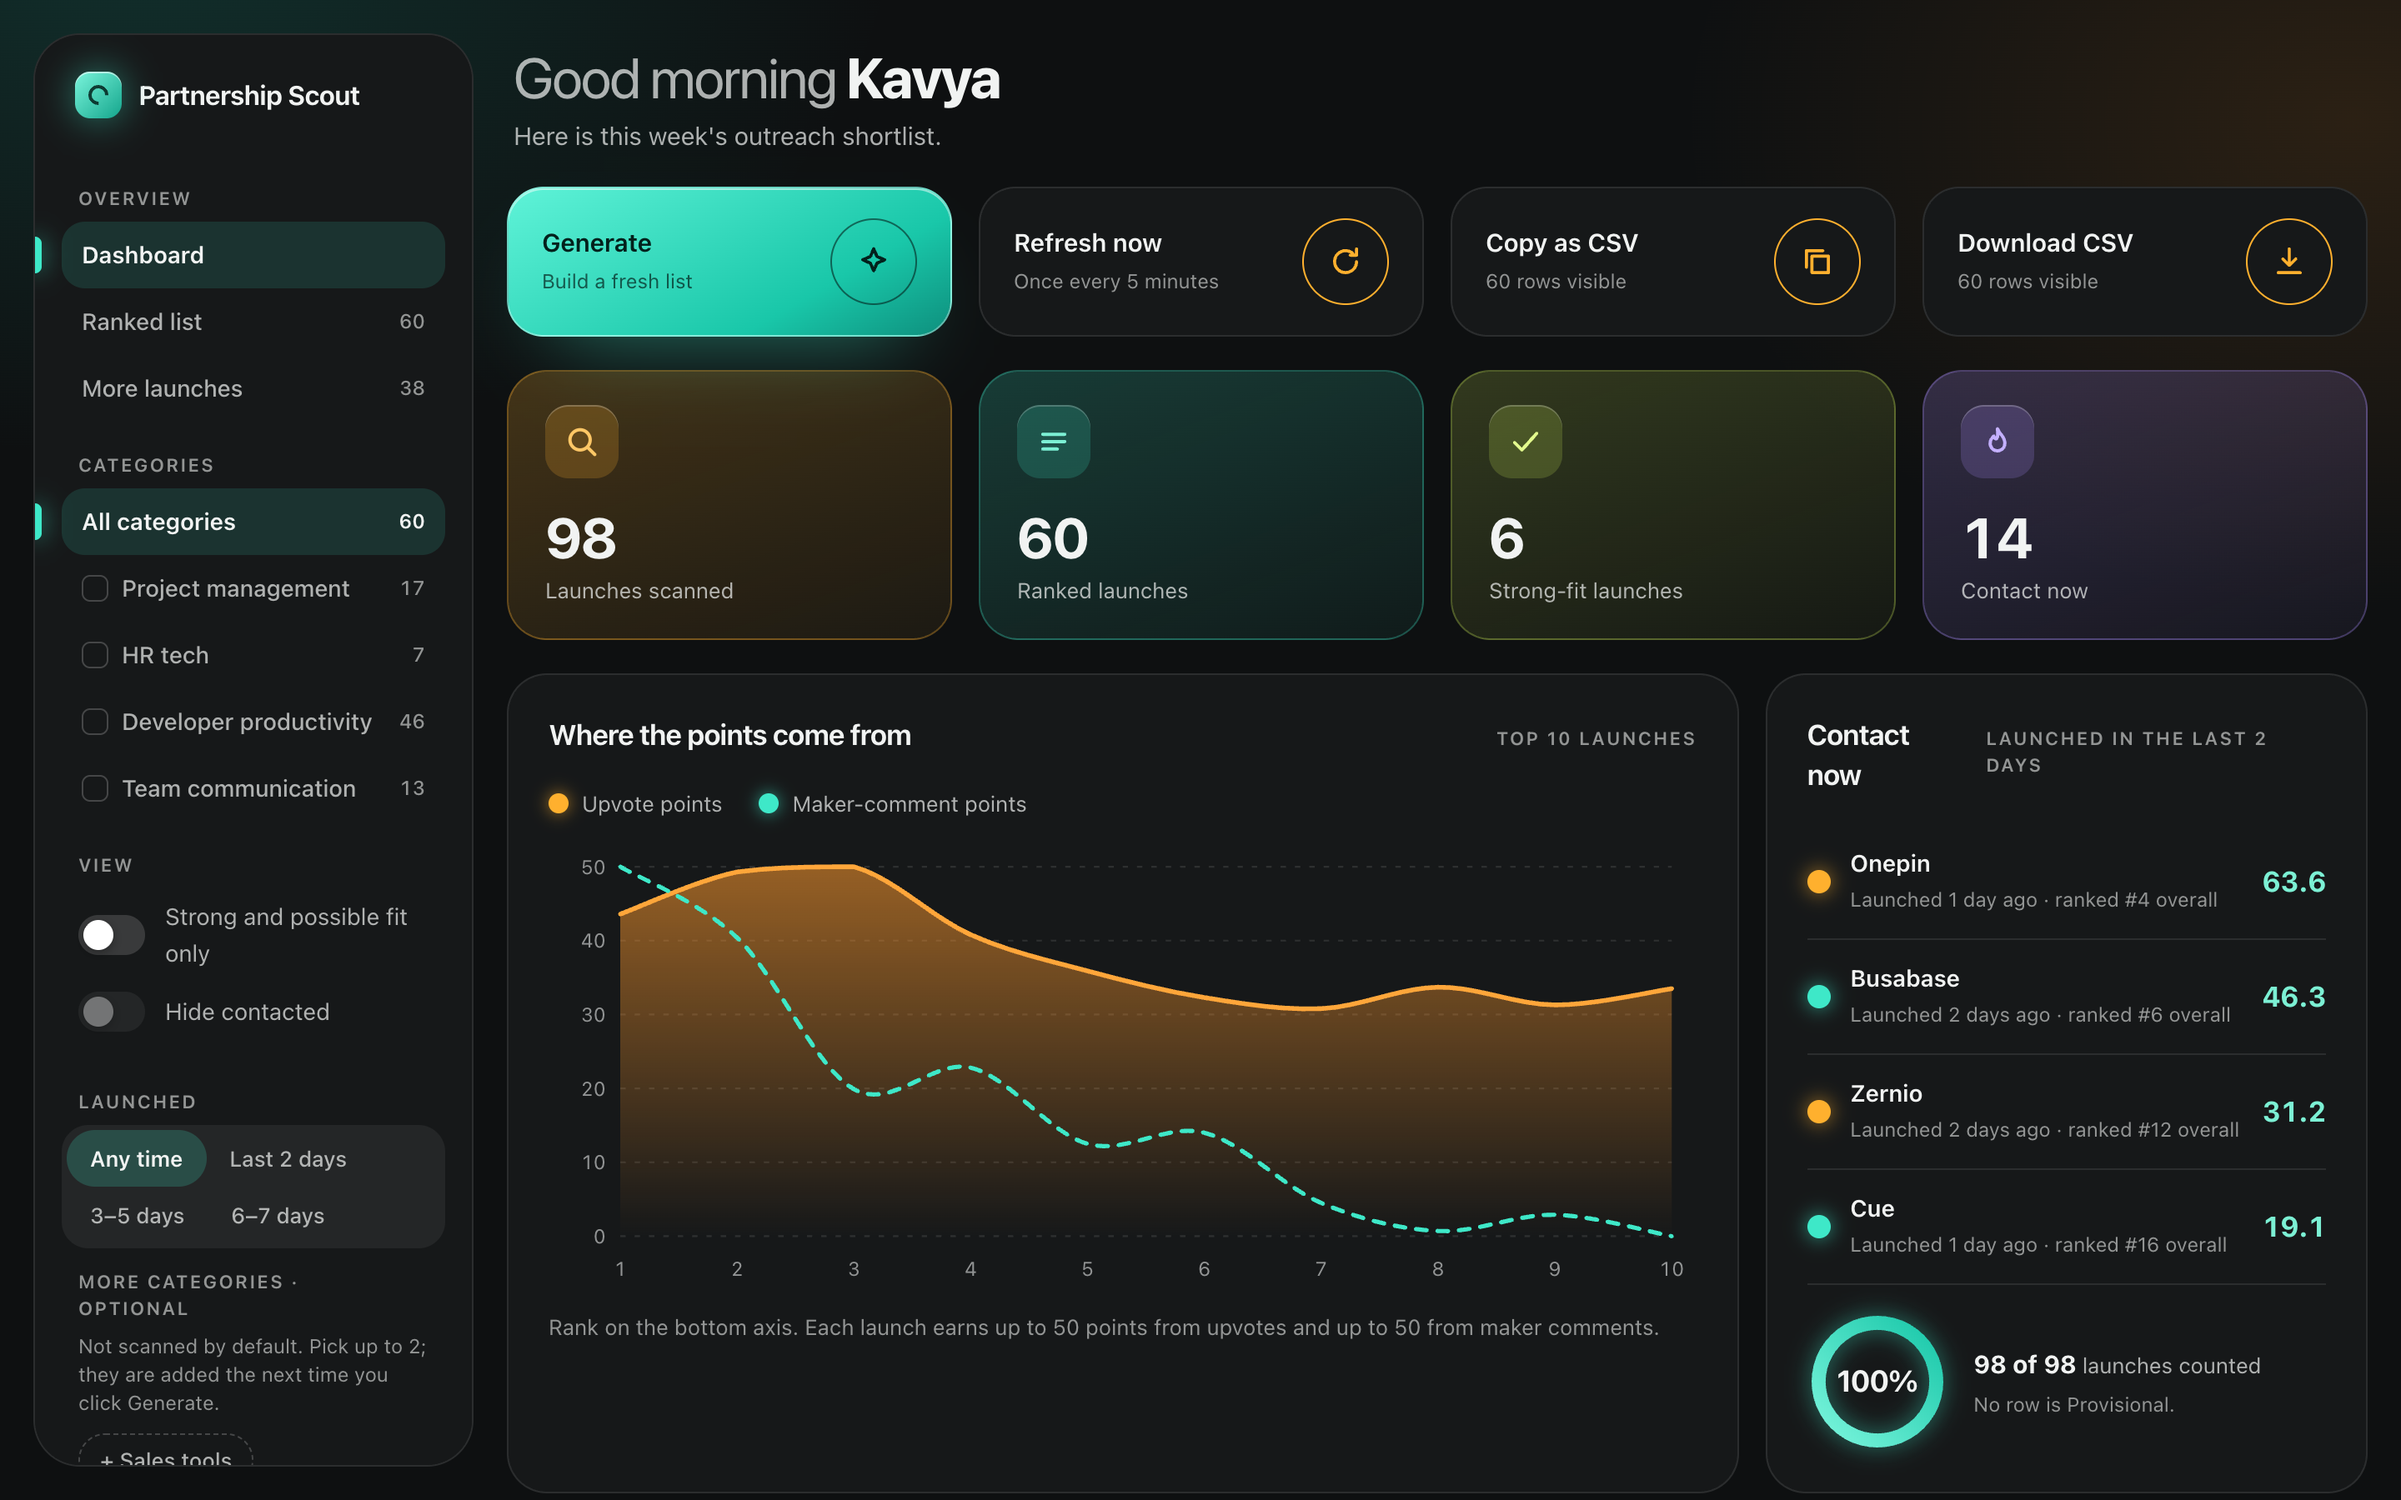
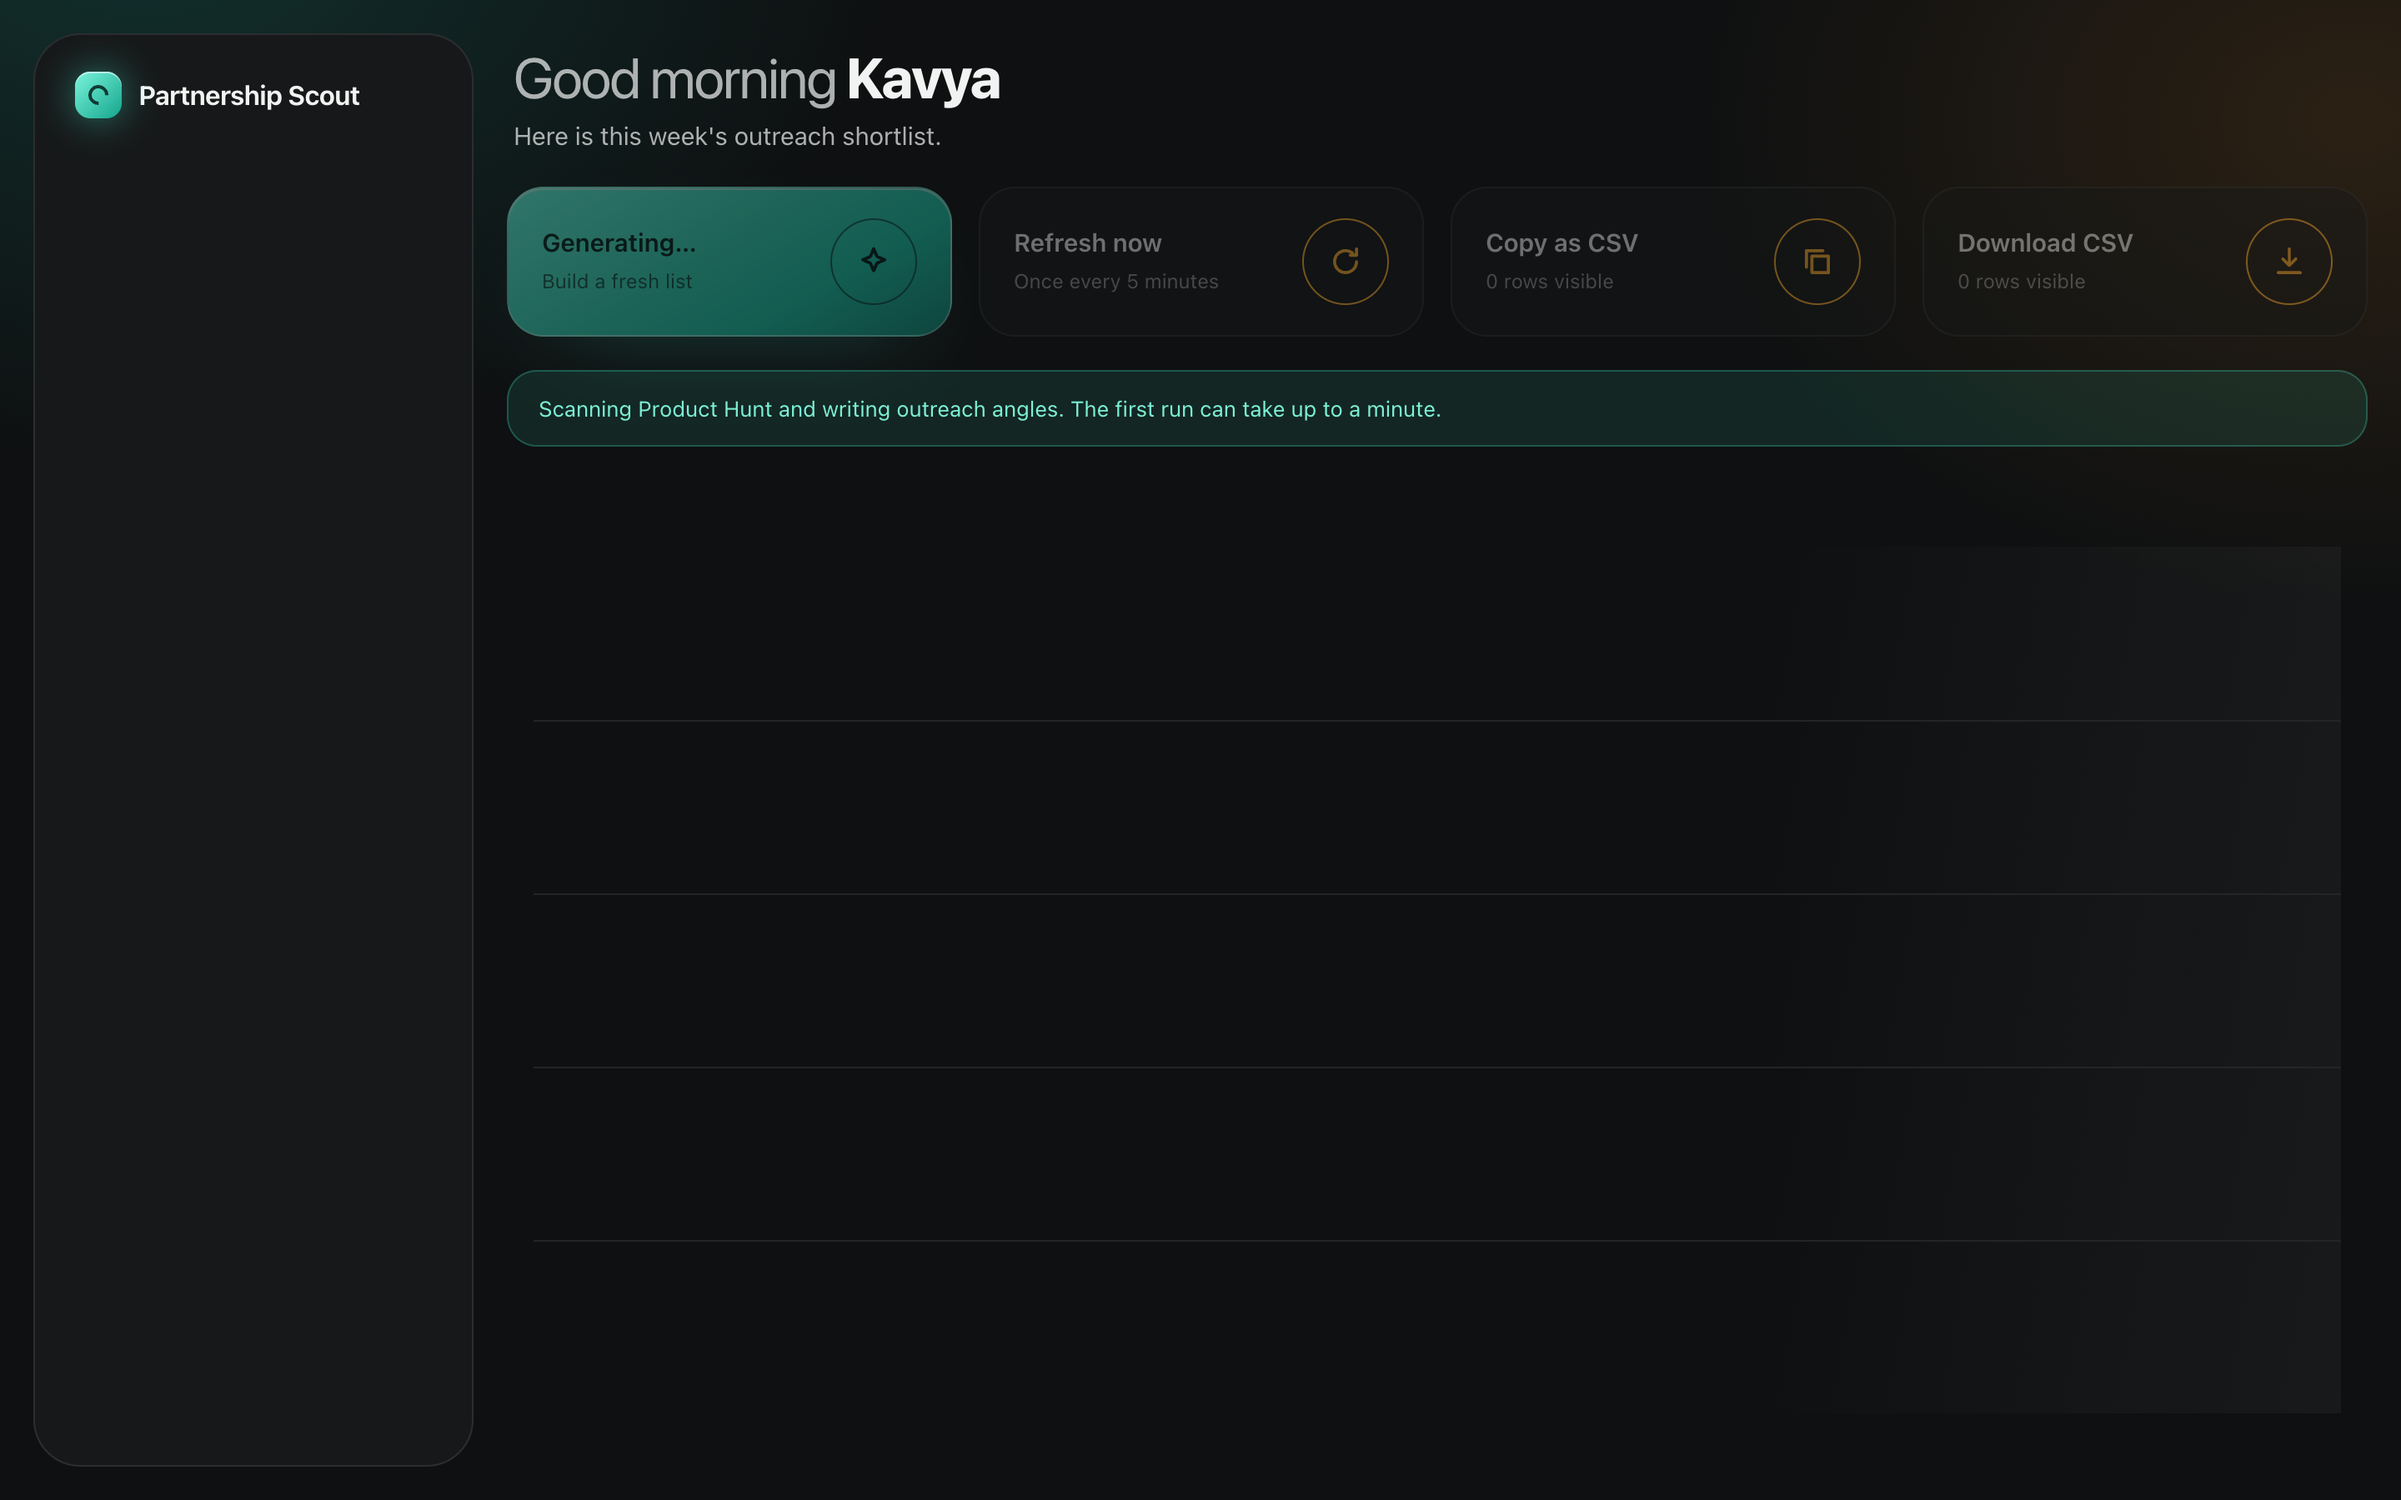
Rename Possible fit to Complementary fit in the UI, CSV and copy to Kavya

diff --git a/app/page.tsx b/app/page.tsx
@@ -7,7 +7,7 @@ import type { ScoredLaunch, ScoutResponse } from "@/lib/types";
 
 const LAST_VISIT_KEY = "ph-scout:lastVisit";
 const URGENCY_TEXT = { hot: "Hot — contact now", week: "Contact this week", closing: "Window closing" } as const;
-const FIT_TEXT = { strong: "Strong fit", possible: "Possible fit", weak: "Weak fit", competitor: "Likely competitor", unrated: "Not rated" } as const;
+const FIT_TEXT = { strong: "Strong fit", possible: "Complementary fit", weak: "Weak fit", competitor: "Likely competitor", unrated: "Not rated" } as const;
 
 /** Copy text to the clipboard, with a fallback for browsers that block the async clipboard API. */
 async function copyText(text: string): Promise<boolean> {
@@ -567,7 +567,7 @@ export default function Page() {
   const fitSwitch = (
     <label className="switch">
       <input type="checkbox" checked={fitOnly} disabled={!data?.ai.available} onChange={(e) => setFitOnly(e.target.checked)} />
-      Strong and possible fit only
+      Strong and complementary fit only
     </label>
   );
   const contactedCount = data ? [...data.ranked, ...data.tooEarly, ...data.moreLaunches].filter((r) => contacted[r.id]).length : 0;

diff --git a/lib/notify.ts b/lib/notify.ts
@@ -52,7 +52,7 @@ export function isRealGenerate(headers: Headers, refresh: boolean): boolean {
 // ---------------------------------------------------------------- message building
 const FIT_LABEL: Record<ScoredLaunch["ai"]["fit"], string> = {
   strong: "Strong fit",
-  possible: "Possible fit",
+  possible: "Complementary fit",
   weak: "Weak fit",
   competitor: "Likely competitor",
   unrated: "Not rated",

diff --git a/lib/csv.ts b/lib/csv.ts
@@ -38,7 +38,7 @@ export function csvLine(cells: Cell[]): string {
 
 const FIT_LABEL: Record<ScoredLaunch["ai"]["fit"], string> = {
   strong: "Strong fit",
-  possible: "Possible fit",
+  possible: "Complementary fit",
   weak: "Weak fit",
   competitor: "Likely competitor",
   unrated: "Not rated",

diff --git a/README.md b/README.md
@@ -23,7 +23,7 @@ The UI is a dark dashboard built with original CSS and inline SVG (cards, pills,
 5. **Gemini Flash** (`@google/genai`) labels partnership fit and writes a one-liner, an outreach angle and a verbatim evidence quote, in batched calls. Only launches without a saved result are sent. Only launch text is sent (name, tagline, description, topic names): no maker or commenter names or ids.
    **Draft message:** each row with an angle has a button that asks Gemini Flash (one call, saved in Neon for 7 days) for a short first message in Kavya's voice. It sees only public launch text and the saved angle, never founder names: the greeting carries a placeholder that the page fills in with the founder first name already on screen. She picks **Email** (subject and body) or **Short DM** (a few lines for LinkedIn or Product Hunt), edits it, copies it and sends it herself from her own accounts. Links and email addresses in the draft are rejected, the endpoint accepts only a launch id from the page, and nothing is sent by the tool.
 6. Code **verifies every quote** against the launch tagline and description. A quote that fails twice is shown with an "Unverified" tag, never hidden.
-7. The list is shown in score order with tags (fit, category, urgency), category filters in the sidebar (tick one, several or all; a launch shows if it matches any ticked category), a "Strong and possible fit only" switch, a "Launched" filter (any time, last 2 days, 3 to 5 days, 6 to 7 days), a search box for product or founder name and a "Hide contacted" switch (all of these only hide rows), and a source badge: **LIVE**, **CACHED** or **SAMPLE**.
+7. The list is shown in score order with tags (fit, category, urgency), category filters in the sidebar (tick one, several or all; a launch shows if it matches any ticked category), a "Strong and complementary fit only" switch, a "Launched" filter (any time, last 2 days, 3 to 5 days, 6 to 7 days), a search box for product or founder name and a "Hide contacted" switch (all of these only hide rows), and a source badge: **LIVE**, **CACHED** or **SAMPLE**.
 
 If Product Hunt fails the app serves the saved copy from Neon labelled **CACHED** (with its original fetch time), and if there is none, the bundled snapshot labelled **SAMPLE**. If Gemini fails, every row keeps its rank and shows neutral text with an "AI summaries unavailable" banner.
 
